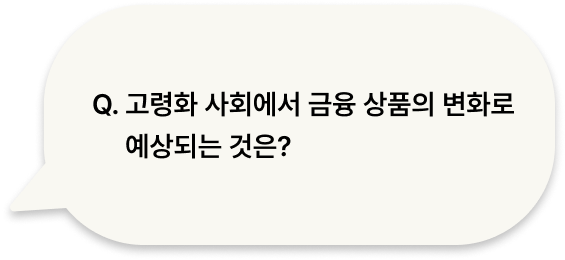
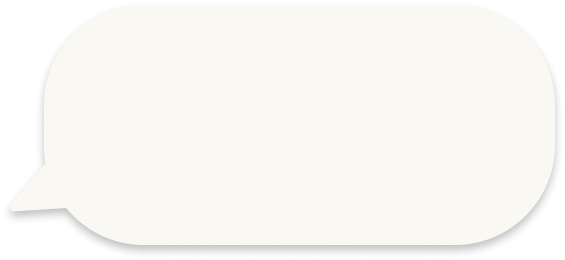
quiz frontend(like figma)

Changed region(s): [[0.1504, 0.3385, 0.9027, 0.4615], [0.2106, 0.4923, 0.5115, 0.6154]]

diff --git a/src/components/quiz/quizChoice.vue b/src/components/quiz/quizChoice.vue
@@ -1,0 +1,62 @@
+<template>
+    <div style="display:flex;">
+        <div class="choice">
+            <div class="number"><p>1</p></div>
+            <p style="text-align:center;">연금 수요 증가</p>
+        </div>
+        <div class="choice">
+            <div class="number"><p>2</p></div>
+            <p style="text-align:center;">신용 대출 확대</p>
+        </div>
+        <div class="choice">
+            <div class="number"><p>3</p></div>
+            <p style="text-align:center;">고위험 투자 확대</p>
+        </div>
+        <img src="@/resources/quiz_counter.png" style="position:relative;top:-100px;">
+    </div>
+</template>
+<script>
+export default {
+    
+}
+</script>
+<style>
+    .choice{
+        width:200px;
+        height:100px;
+        min-width:200px;
+        min-height:100px;
+        border:3px solid #6F3533;
+        border-radius:20px;
+        background-color:#FFEFCA;
+        margin:0 20px;
+    }
+    .number{
+        display:flex;
+        justify-content:center;
+        align-items:center;
+        width:28px;
+        min-width:28px;
+        height:28px;
+        min-height:28px;
+        background-color:#6F3533;
+        border-radius:15px;
+        margin:7px;
+    }
+    .number p{
+        display:flex;
+        justify-content:center;
+        align-items:center;
+        min-width:28px;
+        min-height:28px;
+        color:white;
+    }
+    p{
+        font-family: 'Pretendard-Regular';
+        font-weight:600;
+        font-style: normal;
+        text-align:center;
+        font-size:24px;
+        margin:0;
+    }
+</style>

diff --git a/src/components/quiz/quizMain.vue b/src/components/quiz/quizMain.vue
@@ -1,23 +1,32 @@
 <template>
-    <div style="display:inline-block">
-        <h3>퀴즈</h3>
-        <p class="balloon"></p>
-        <img src="@/resources/man_in_black.png" width="100px" height="125px">   <!-- 이미지가 약 4:5 비율-->
+    <div style="display:inline-block;text-align:center;">
+        <h3>퀴즈</h3>   <!-- 일단 프론트엔드만 만들어놓는 중 -->
+        <p class="balloon">이제 여기에 문제를 내면 됩니다</p>
+        <img src="@/resources/man_in_black.png" width="400px" height="500px">   <!-- 이미지가 약 4:5 비율-->
+        <quizChoice/>
     </div>
 </template>
 <script>
+import quizChoice from './quizChoice.vue';
+
 export default {
-    name:'quizcomponent'
+    name:'quizcomponent',
+    components:{
+        quizChoice,     // 결과물 확인을 위해 임시로 둠. 선택지는 다른 칸으로 이동 예정.
+    }
 }
 </script>
 <style>
     .balloon{
-        width:210px;
-        min-height:100px;
-        background-image:url("@/resources/speech_balloon.png"); /* 약 2:1 비율 */
+        display:flex;
+        justify-content:center;
+        align-items:center;
+        width:525px;
+        min-height:250px;
+        background-image:url("@/resources/speech_balloon.png"); /* 약 21:10 비율 */
         background-size: 100% 100%;
         position:relative;
-        top:60px;
-        left:80px;
+        top:160px;
+        left:470px;
     }
 </style>

diff --git a/index.html b/index.html
@@ -4,6 +4,7 @@
     <meta charset="UTF-8">
     <link rel="icon" href="/favicon.ico">
     <meta name="viewport" content="width=device-width, initial-scale=1.0">
+    <link rel="stylesheet" as="style" crossorigin href="https://cdn.jsdelivr.net/gh/orioncactus/pretendard@v1.3.9/dist/web/static/pretendard.min.css" />
     <title>Vite App</title>
   </head>
   <body>
